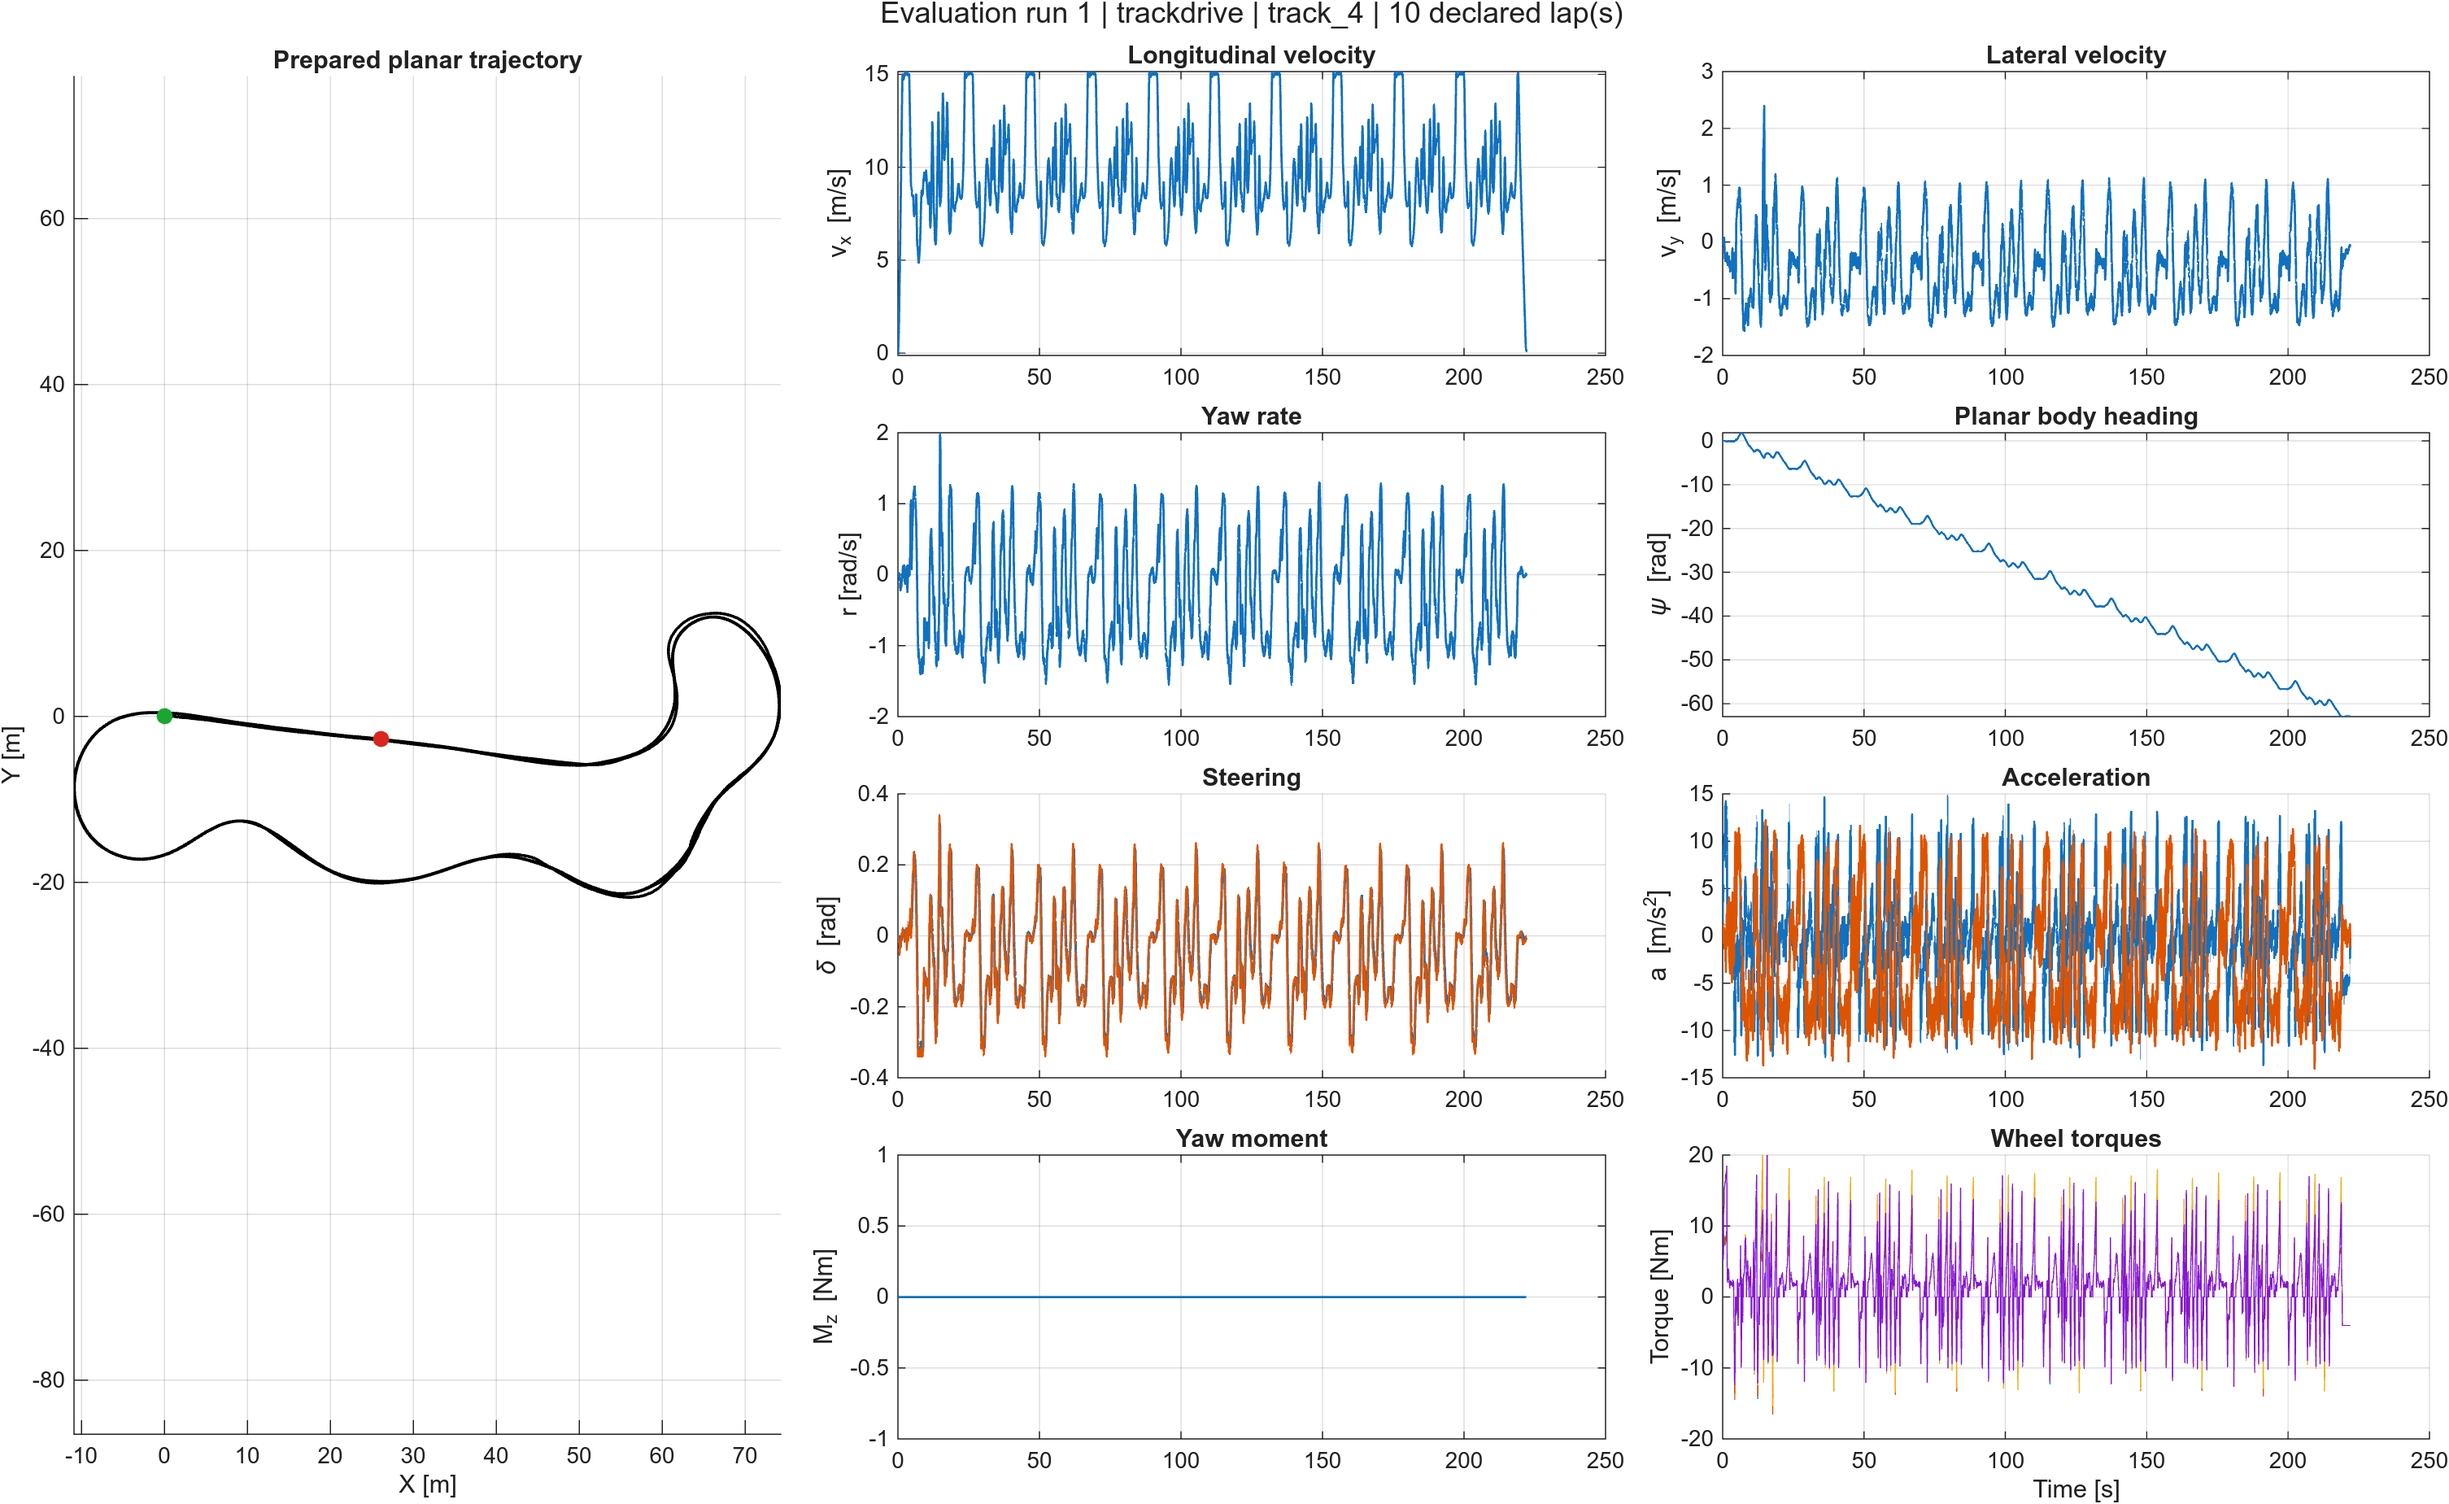
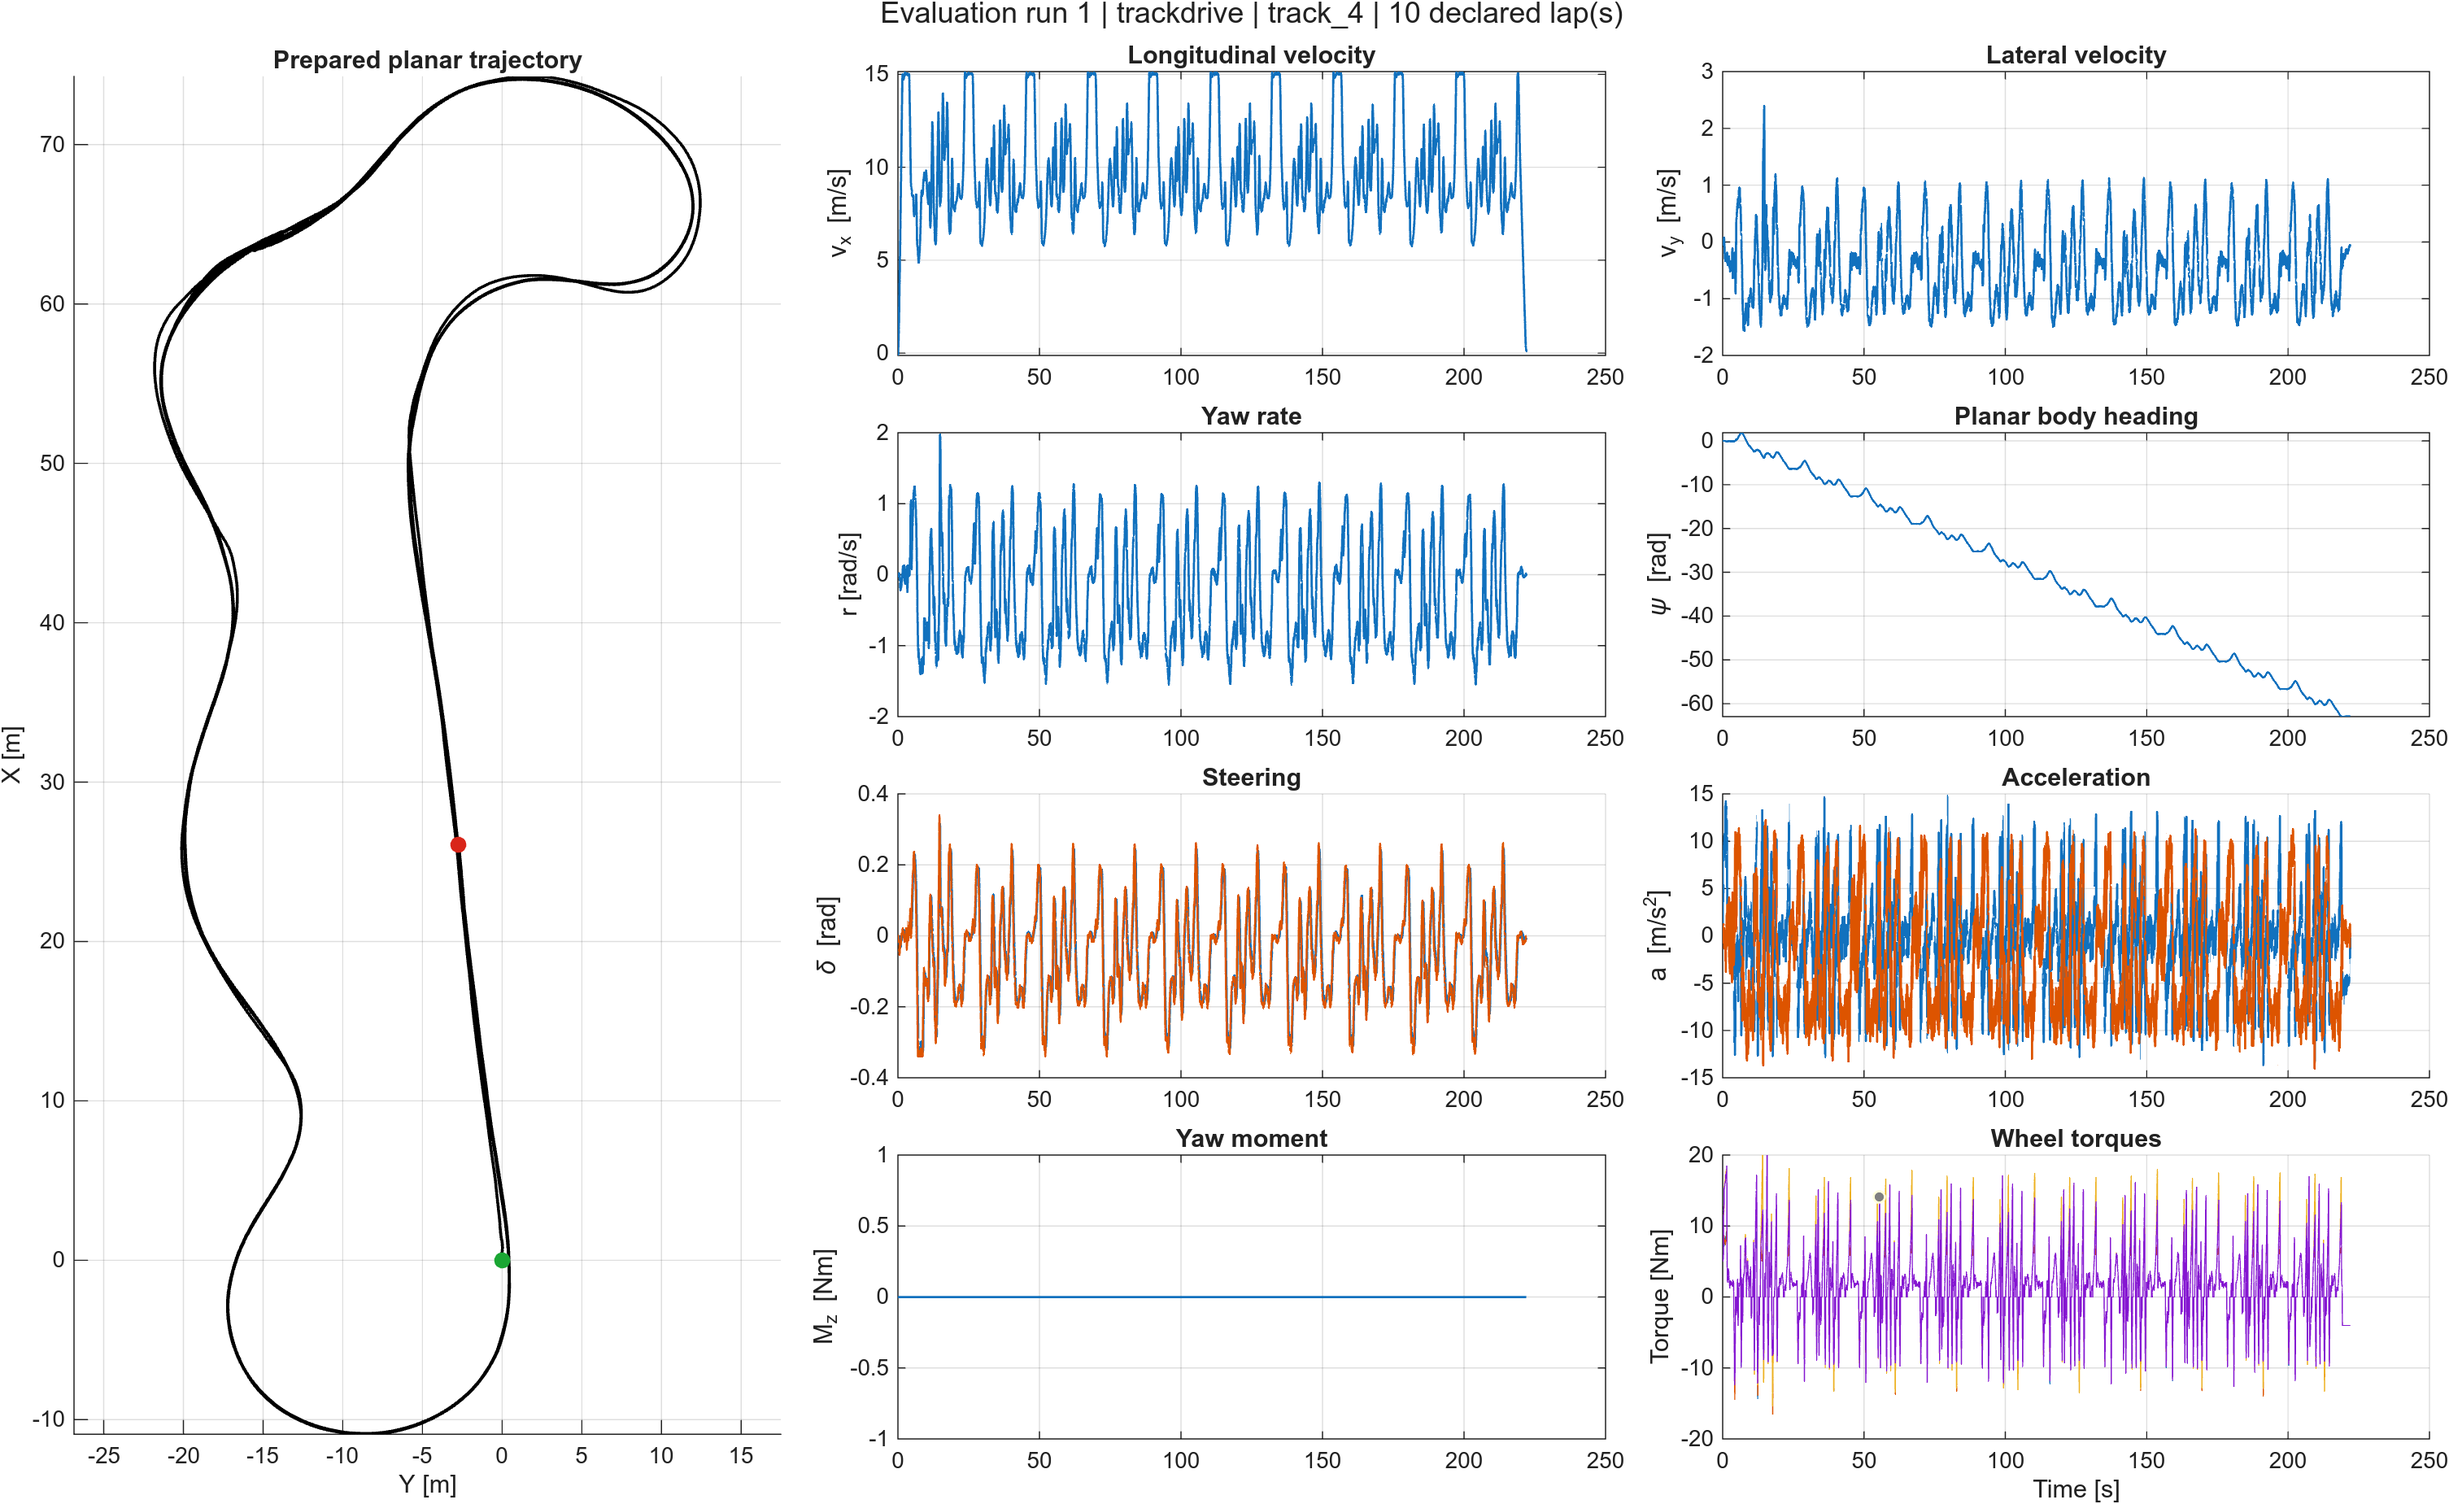
visualization can swap axis in the map

diff --git a/mtlb/visualize_data.m b/mtlb/visualize_data.m
@@ -22,6 +22,10 @@ selected_run = 1;               % index inside the selected split
 % Leave empty for the complete prepared run, or use [first last] samples.
 selected_sample_range = [];
 
+% Exchange X and Y only in the trajectory visualization. This does not
+% modify the loaded dataset or any model input.
+swap_map_xy = true;
+
 %% LOAD PREPARED DATA
 
 assert(isfile(training_dataset_file), ...
@@ -114,13 +118,26 @@ title(layout,sprintf('%s run %d | %s | %s | %g declared lap(s)', ...
     upperFirst(selected_split),selected_run,selected.event, ...
     selected.track_layout,selected.laps),'Interpreter','none');
 
+if swap_map_xy
+    map_x = data.y(idx);
+    map_y = data.x(idx);
+    map_x_label = 'Y [m]';
+    map_y_label = 'X [m]';
+else
+    map_x = data.x(idx); %#ok<UNRCH>
+    map_y = data.y(idx);
+    map_x_label = 'X [m]';
+    map_y_label = 'Y [m]';
+end
+
 map_axis = nexttile(layout,[4 1]); hold(map_axis,'on'); grid(map_axis,'on');
-plot(map_axis,data.x(idx),data.y(idx),'k-','LineWidth',1.3);
-scatter(map_axis,data.x(idx(1)),data.y(idx(1)),50,[0.1 0.65 0.2], ...
+plot(map_axis,map_x,map_y,'k-','LineWidth',1.3);
+scatter(map_axis,map_x(1),map_y(1),50,[0.1 0.65 0.2], ...
     'filled','DisplayName','Start');
-scatter(map_axis,data.x(idx(end)),data.y(idx(end)),50,[0.85 0.15 0.1], ...
+scatter(map_axis,map_x(end),map_y(end),50,[0.85 0.15 0.1], ...
     'filled','DisplayName','End');
-axis(map_axis,'equal'); xlabel(map_axis,'X [m]'); ylabel(map_axis,'Y [m]');
+axis(map_axis,'equal');
+xlabel(map_axis,map_x_label); ylabel(map_axis,map_y_label);
 title(map_axis,'Prepared planar trajectory'); legend(map_axis,'Location','best');
 
 time_axes = gobjects(8,1);
@@ -164,6 +181,9 @@ for axis_idx = 1:numel(time_axes)
 end
 linkaxes(time_axes,'x');
 save_script_figures('visualize_data',data_figure);
+
+%% 
+
 
 %% LOCAL FUNCTIONS
 
